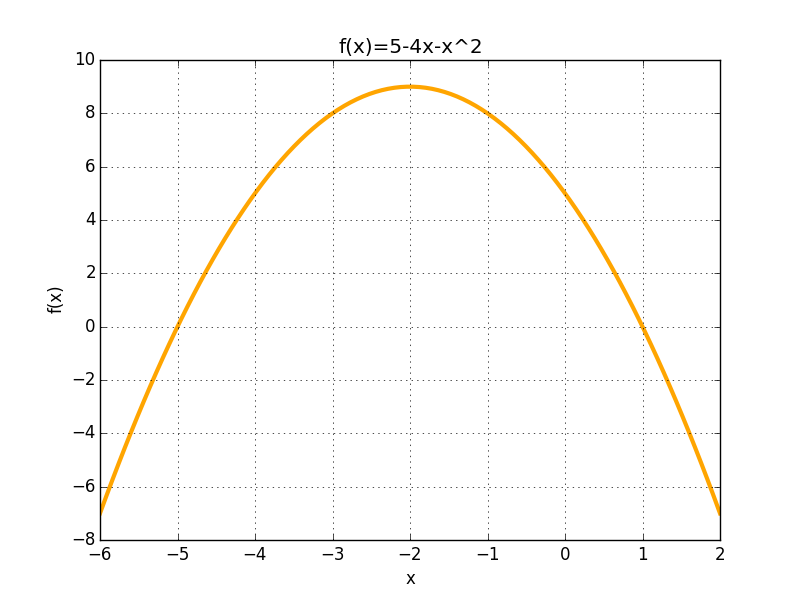
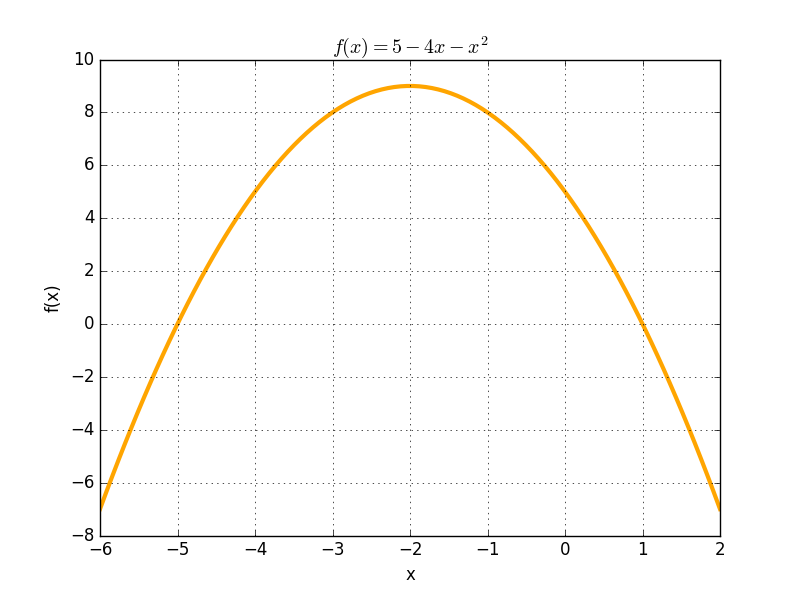
lab3b

diff --git a/Laboratorio 3B/Ejercicio 1/ejercicio1a.py b/Laboratorio 3B/Ejercicio 1/ejercicio1a.py
@@ -1,10 +1,13 @@
+#Ejercicio1
+#Valeria Montserrat Maya Gonzalez
+
 import matplotlib.pyplot as plt
 import numpy as np
 x=np.linspace(-6,2,100)
 y=5-(4*x)-x**2
 plt.plot(x,y,linewidth=3,color='orange')
 plt.legend()
-plt.title('f(x)=5-4x-x^2')
+plt.title('$f(x)=5-4x-x^2$')
 plt.xlabel('x')
 plt.ylabel('f(x)')
 plt.grid(True)
